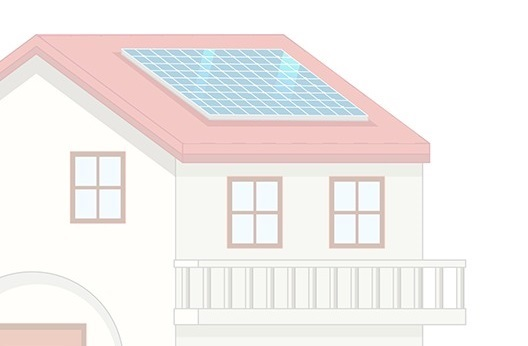
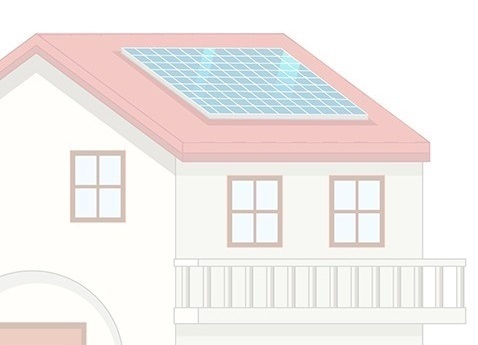
nav-info  background

diff --git a/src/ui/pages/home-page/components/infos/Infos.scss b/src/ui/pages/home-page/components/infos/Infos.scss
@@ -3,13 +3,37 @@
 #infoNavMenuCon {
     @include box-reset-default;
     border: $gb-con_5-sol-red;
-    height: 100vh;
+    height: 110vh;
+    position: relative;
+    justify-items: center;
     #infoNavMenuRow {
         @include box-reset-default;
         border: $gb-row_5-sol-ylw;
         height: 100%;
+        width: 100%;
         align-items: center;
         text-align: center;
+        color: black;
+        position: absolute;
+        z-index: 2;
+    }
+    #backgroundRow {
+        @include box-reset-default;
+        //border: $gb-row_5-sol-ylw;
+        height: 100%;
+        width: 100%;
+        position: absolute;
+        z-index: 0;
+        align-content: end;
+        justify-content: space-between;
+        #houseCartoon {
+            @include box-reset-default;
+            //border: $gb-col_2-dsh-blu;
+        }
+        #panelsCartoon {
+            @include box-reset-default;
+            //border: $gb-col_2-dsh-blu;
+        }
     }
 }
 #infosCon {

diff --git a/src/ui/pages/home-page/components/infos/Infos.jsx b/src/ui/pages/home-page/components/infos/Infos.jsx
@@ -1,11 +1,19 @@
 import React from "react";
+import IMG from "../../../../../assets/imagesHub";
+import InfoNavMenu from "./nav-menu/InfoNavMenu"
 
 function Infos() {
   return (
     <>
       <section id="infoNavMenuCon" className="container-fluid">
         <div id="infoNavMenuRow" className="row">
-          <h1>Infos Nav-Menu</h1>
+          <InfoNavMenu />
+        </div>
+        <div id="backgroundRow" className="row d-flex">
+          <img id="houseCartoon" className="col-5" 
+               src={IMG.cartoonLeftBackground} alt="ilustração de casa com painel solar" />
+          <img id="panelsCartoon" className="col-5" 
+               src={IMG.cartoonRightBackground} alt="ilustração de trabalhadores e infra-estrutura elétrica" />
         </div>
       </section>
       <section id="infosCon" className="container-fluid">

diff --git a/src/ui/pages/home-page/components/infos/nav-menu/InfoNavMenu.jsx b/src/ui/pages/home-page/components/infos/nav-menu/InfoNavMenu.jsx
@@ -2,8 +2,8 @@ import React from "react";
 
 function InfoNavMenu() {
   return (
-    <>
-      
+    <>        
+        <h1>navmenu</h1>
     </>
   );
 };
